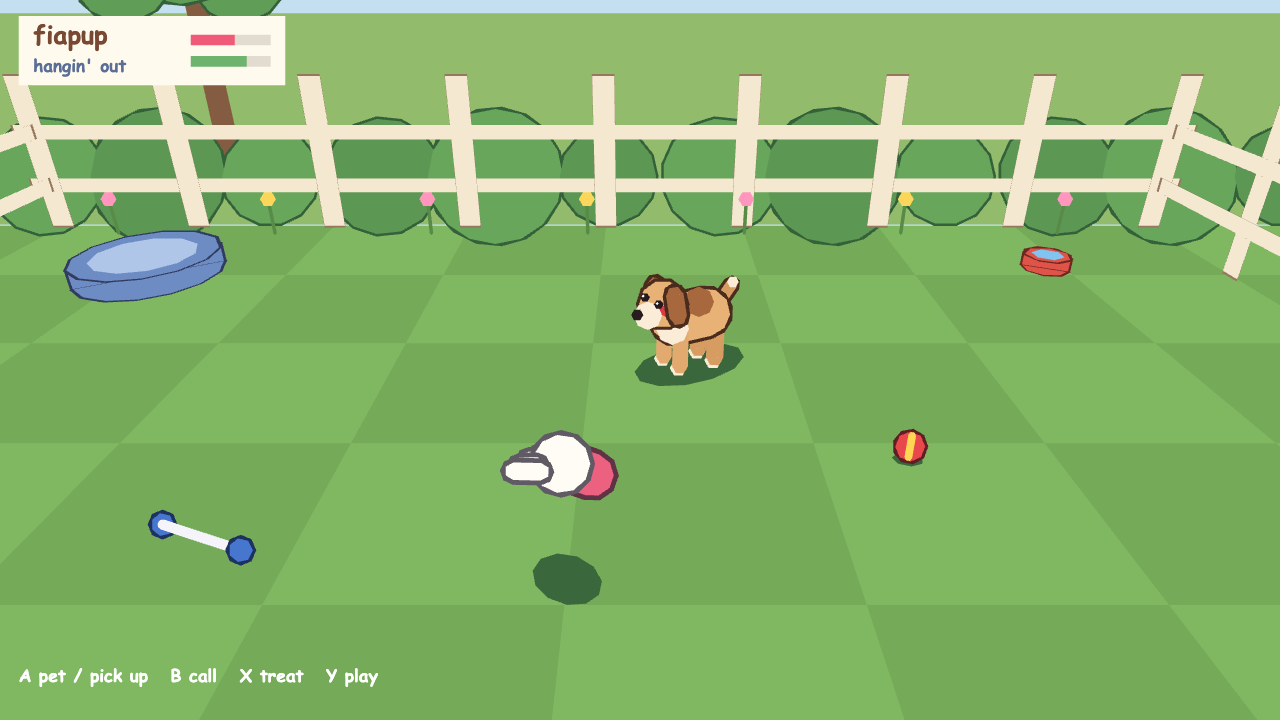
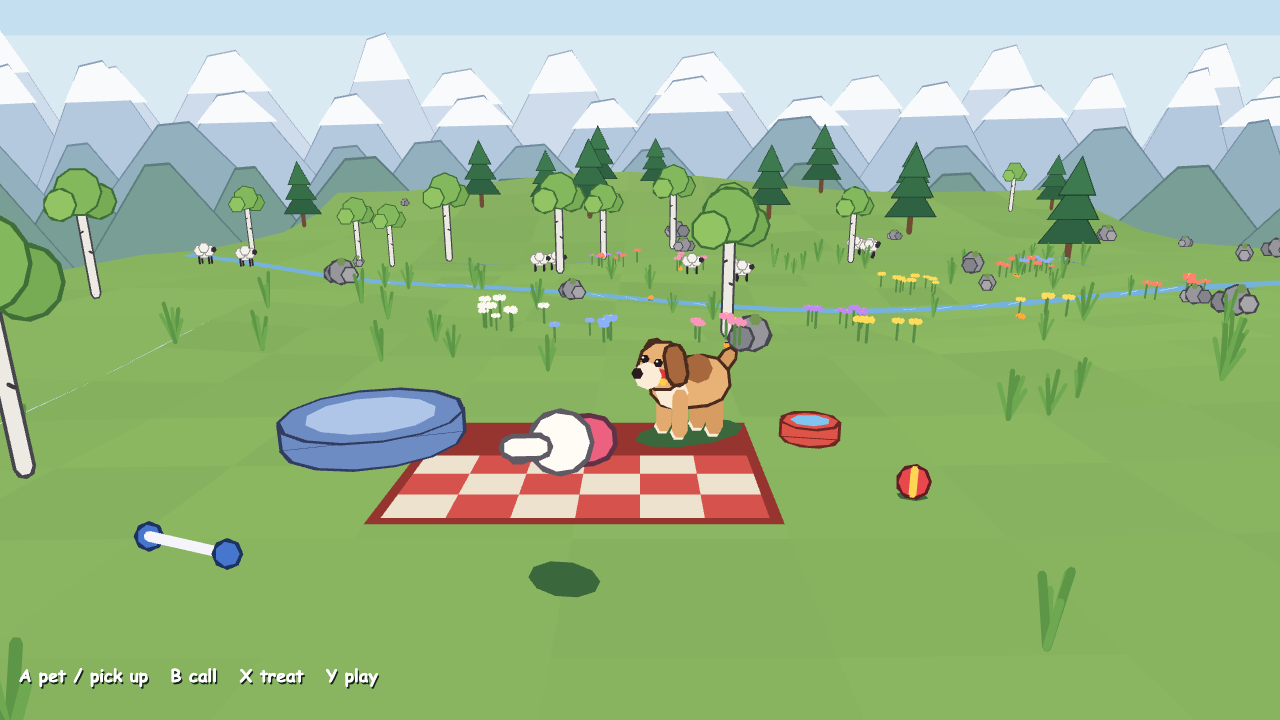
fiapup: meadow tests, spread chunk builds, fairer far picks, a run perf probe
chunks build two a tick, nearest first, after the first window, so a new
row doesn't cost one long frame. a pick's forgiveness shrinks with
distance, where small things crowd and a tap mostly means the ground.
off-screen critters send nothing. tests: a far tap near the horizon is
run to and the camera follows; chunks are the same for a seed and stream
in and out deterministically; a run over 30+ chunk builds keeps the
program under 1800 numbers; the blanket calls it home; flower, butterfly,
stream, tall grass and sheep each do their thing. run-perf.mjs times JS
per frame at phone size, resting and running.

diff --git a/xbox/fiapup/fiapup.js b/xbox/fiapup/fiapup.js
@@ -2216,7 +2216,10 @@ function wantedChunks(x, z) {
 // Load what's wanted, drop what isn't. A loaded chunk keeps a handle slot;
 // a chunk that changes lod is rebuilt in its slot and goes up again.
 const CHUNK_HANDLES = 64, chunkHandleBase = 5000;
-function streamChunks(w) {
+// Builds are spread out, nearest first, at most `limit` a call, so crossing
+// into a new row of chunks doesn't cost one long frame; it returns how many
+// are still to build.
+function streamChunks(w, limit = Infinity) {
   const want = wantedChunks(w.pup.x, w.pup.z), loaded = w.chunks;
   let built = 0;
   for (const [key, c] of loaded) {
@@ -2227,8 +2230,10 @@ function streamChunks(w) {
     w.critters = w.critters.filter((k) => k.chunk !== key || k.engaged);
     loaded.delete(key);
   }
-  for (const [key, c] of want) {
-    if (loaded.has(key)) continue;
+  const pcx = w.pup.x / CHUNK - .5, pcz = w.pup.z / CHUNK - .5;
+  const todo = [...want].filter(([key]) => !loaded.has(key))
+    .sort((a, b) => Math.hypot(a[1].cx - pcx, a[1].cz - pcz) - Math.hypot(b[1].cx - pcx, b[1].cz - pcz));
+  for (const [key, c] of todo.slice(0, limit)) {
     const made = chunkRecords(c.cx, c.cz, c.lod);
     const slot = w.freeSlots.pop();
     loaded.set(key, { ...c, ...made, slot });
@@ -2238,7 +2243,7 @@ function streamChunks(w) {
     built++;
   }
   w.chunkBuilds += built;
-  return built;
+  return todo.length - built;
 }
 
 // ——— the mountains: layered flat ridges far off, lighter and bluer with
@@ -3146,7 +3151,10 @@ function moveHand(at) {
 // the pick's reach (under 1 is a hit).
 function reachOf(x, y, wx, wy, wz, r) {
   const at = onScreen(wx, wy, wz);
-  return at ? Math.hypot(x - at.x, y - at.y) / (r * at.k + slop) : Infinity;
+  // A thumb's forgiveness near the camera, less far off, where small things
+  // crowd together and a tap mostly means the ground there.
+  const give = slop * clamp(at ? at.k * 300 / camera[15] : 1, .3, 1);
+  return at ? Math.hypot(x - at.x, y - at.y) / (r * at.k + give) : Infinity;
 }
 function pupReach(x, y) {
   const p = world.pup, rig = pupRig(p), c = Math.cos(p.heading), s = Math.sin(p.heading);
@@ -3568,7 +3576,8 @@ function drawCritters() {
   const c = world.camera;
   for (const k of world.critters) {
     if (dist(k.x, k.z, c.x, c.z) > 800) continue;
-    const gy = groundY(k.x, k.z);
+    const gy = groundY(k.x, k.z), seen = onScreen(k.x, gy + 10, k.z);
+    if (!seen || seen.x < -80 || seen.x > screenW + 80 || seen.y < -80 || seen.y > screenH + 80) continue;
     inputs.time = world.t + k.phase;
     inputs.hit = world.t - (k.hitAt ?? -99);
     inputs.owner = null;
@@ -3802,7 +3811,12 @@ function portraitCamera() {
 // as when paused, still wants the ground).
 function keepChunks() {
   const at = `${Math.floor(world.pup.x / CHUNK)},${Math.floor(world.pup.z / CHUNK)}`;
-  if (at !== world.chunkAt) { world.chunkAt = at; streamChunks(world); }
+  // the first time, everything at once (there's nothing to show yet); then
+  // two chunks a tick until the window is full
+  if (at !== world.chunkAt || world.chunksOwed) {
+    world.chunksOwed = streamChunks(world, world.chunkAt ? 2 : Infinity);
+    world.chunkAt = at;
+  }
 }
 
 function paintFrame() {
@@ -3867,7 +3881,7 @@ const fiapup = {
   // A tap on a named thing, or "play", as if a finger had done it (the lab's buttons).
   stageTap(kind) { if (kind === "play") play(); else tapOn(kind, { x: world.hand.x, z: world.hand.z }); },
   // The valley, for tests: where home is, the ground, the chunks.
-  home: { camp: home, bed, bowl }, groundY, chunkRecords, wantedChunks, nearEdge, streamZ, CHUNK, SEED,
+  home: { camp: home, bed, bowl }, groundY, tapTarget, chunkRecords, wantedChunks, nearEdge, streamZ, CHUNK, SEED,
   pupHandles: () => (handles.get(objects.puppy) || []).filter(Boolean), screenOf: onScreen, ground, pupReach, paint: paintFrame, stats, rig: pupRig, owner: pupOwner, place: pupPlace,
   program: () => program.subarray(0, length), strings: () => strings, states: Object.keys(states),
   resend() { sent = new Set(); vm = null; },
@@ -3895,6 +3909,32 @@ const fiapup = {
     const taps = { go: ["grass", { x: -150, z: 70 }], ballTap: ["ball"], bowl: ["bowl"], bed: ["bed"],
       rope: ["rope"], wiggle: ["pup"] };
     if (taps[name]) { step(); w.touch.mode = true; tapOn(...taps[name]); }
+    // The meadow's moments: a long run up the valley, the pup far out, and
+    // a tap on the nearest of each kind of thing.
+    if (name === "run") { step(); w.touch.mode = true; tapOn("grass", { x: 90, z: -1300 }); }
+    if (name === "far") { Object.assign(p, { x: 1300, z: -1500, heading: -1.2 }); Object.assign(w.hand, { x: 1300, z: -1460 });
+      Object.assign(w.camera, { x: 1300, z: -1480 }); w.touch.mode = true; step(); tapOn("grass", { x: 1180, z: -1750 }); }
+    const nearestOf = (kind) => {
+      let best = null;
+      for (const c of w.chunks.values()) for (const t of c.things)
+        if (t.kind === kind && (!best || dist(p.x, p.z, t.x, t.z) < dist(p.x, p.z, best.x, best.z))) best = t;
+      for (const k of w.critters)
+        if (k.kind === kind && (!best || dist(p.x, p.z, k.x, k.z) < dist(p.x, p.z, best.x, best.z))) best = k;
+      return best;
+    };
+    if (["flower", "tuft", "butterfly", "sheep", "stream"].includes(name)) {
+      step(); w.touch.mode = true;
+      const t = nearestOf(name);
+      if (t) {
+        // start close enough that the moment arrives in a few seconds
+        Object.assign(p, { x: t.x + 70, z: t.z + 60 });
+        Object.assign(w.camera, { x: p.x, z: p.z });
+        step();
+        w.tapRef = name === "stream" ? { x: t.x, z: streamZ(t.x) } : t;
+        tapOn(name, t);
+      }
+    }
+    if (name === "camp") { Object.assign(p, { x: -500, z: -300 }); step(); w.touch.mode = true; tapOn("camp"); }
     if (name === "tug") { w.hand.x = 20; w.hand.z = 60; w.hand.holding = "rope"; w.rope.heldBy = "hand"; p.x = 10; p.z = -20; }
     const script = { down: [] };
     globalThis.__fiapupScript = script;
